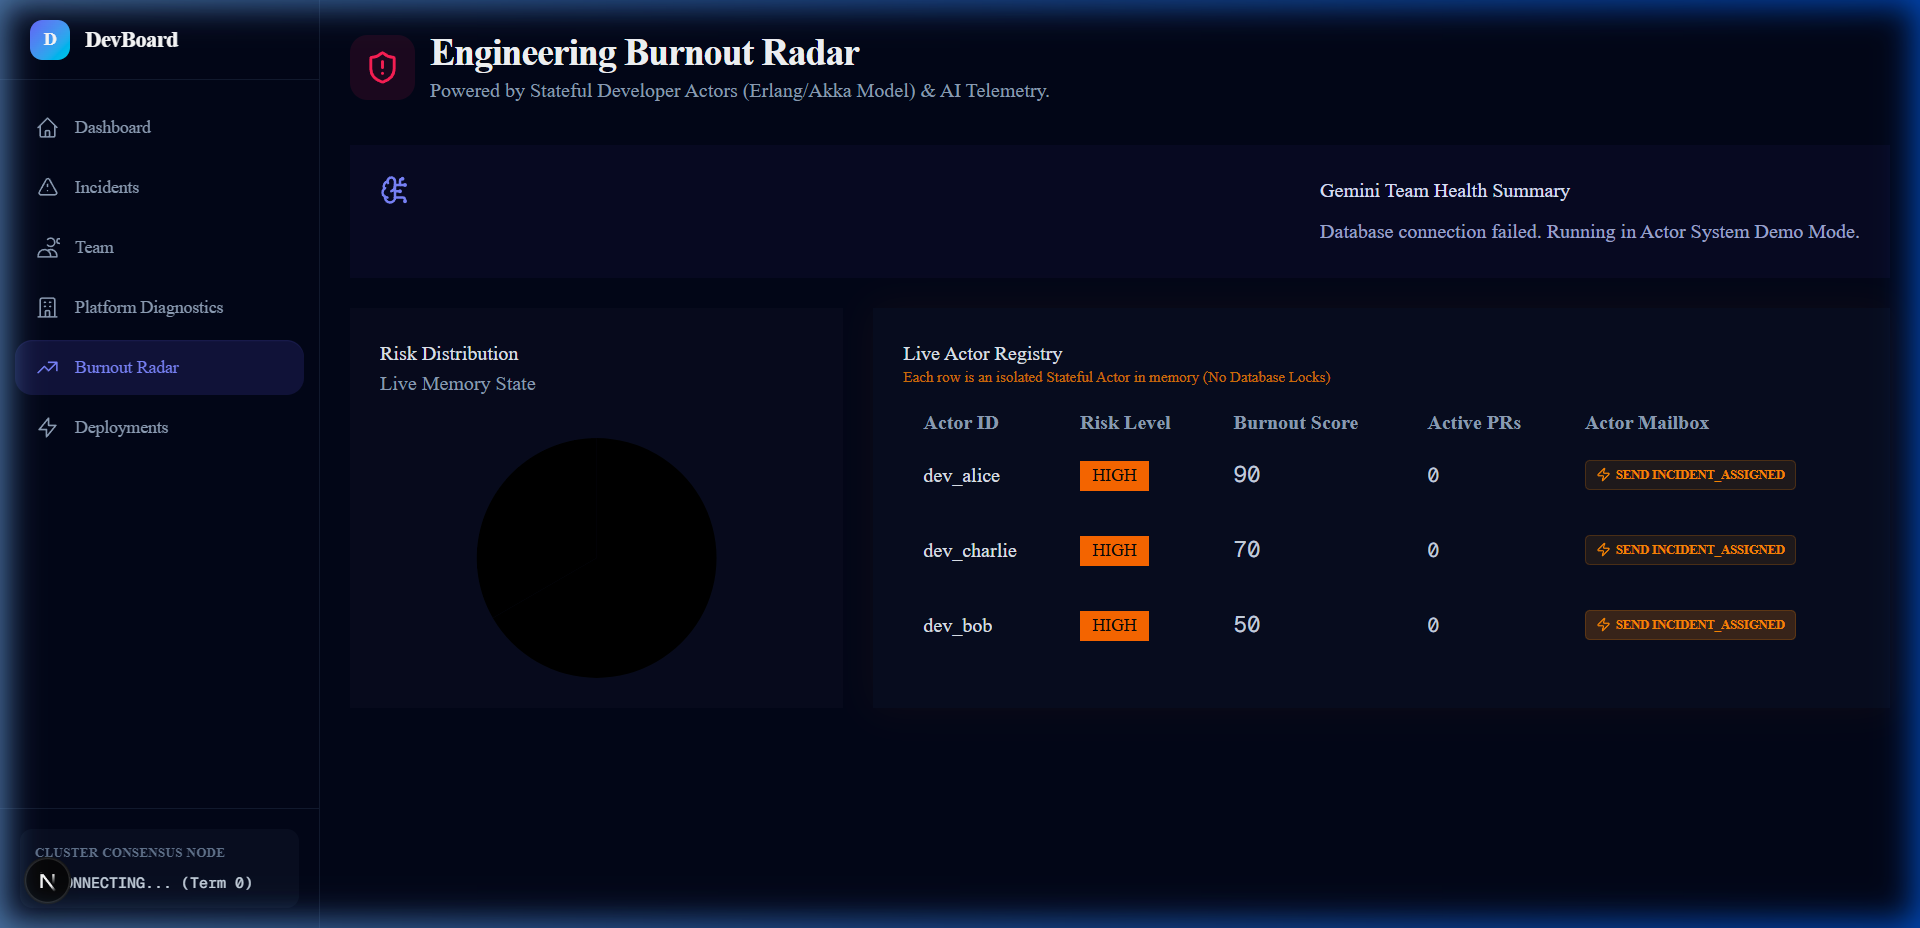
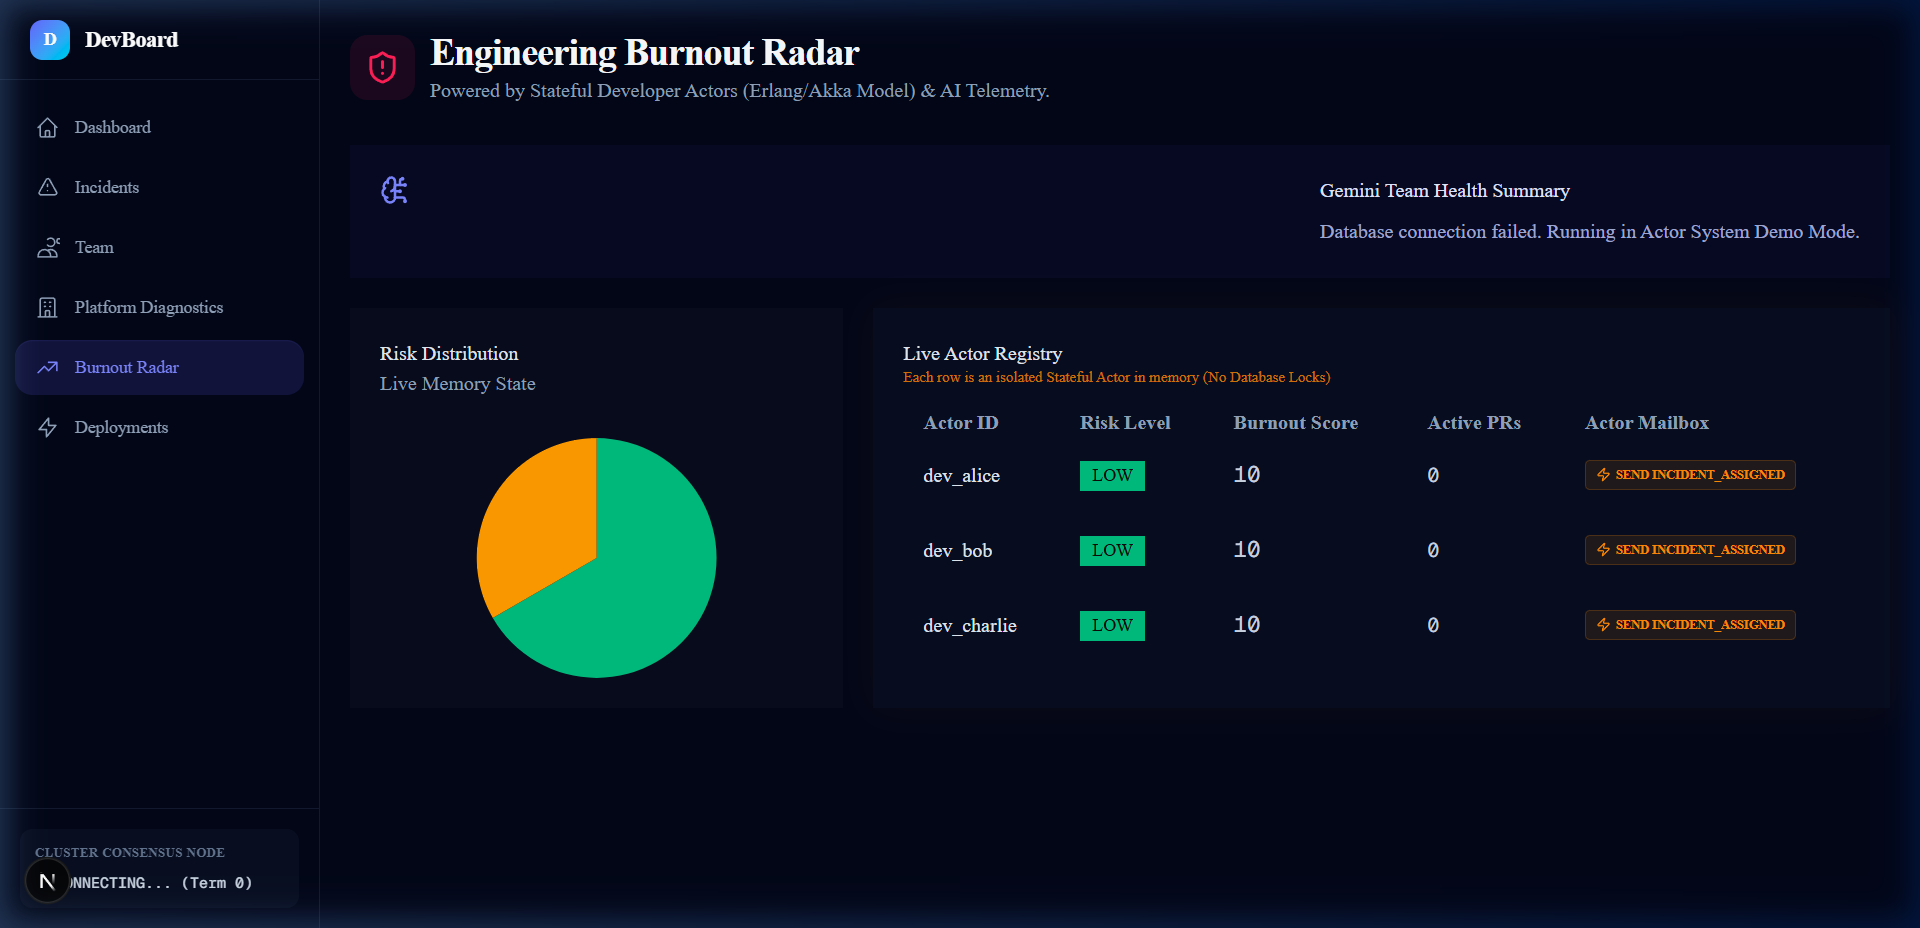
fix: update burnout final screenshot with correct Tremor colors

diff --git a/src/app/burnout/page.tsx b/src/app/burnout/page.tsx
@@ -134,7 +134,13 @@ export default function BurnoutRadar() {
             </Card>
           </div>
         )}
+        
+        {/* Tailwind v4 Safelist Hack for Tremor DonutChart */}
+        <div className="hidden bg-emerald-500 fill-emerald-500 text-emerald-500 ring-emerald-500 stroke-emerald-500" />
+        <div className="hidden bg-amber-500 fill-amber-500 text-amber-500 ring-amber-500 stroke-amber-500" />
+        <div className="hidden bg-rose-500 fill-rose-500 text-rose-500 ring-rose-500 stroke-rose-500" />
       </div>
     </DashboardLayout>
   );
 }
+